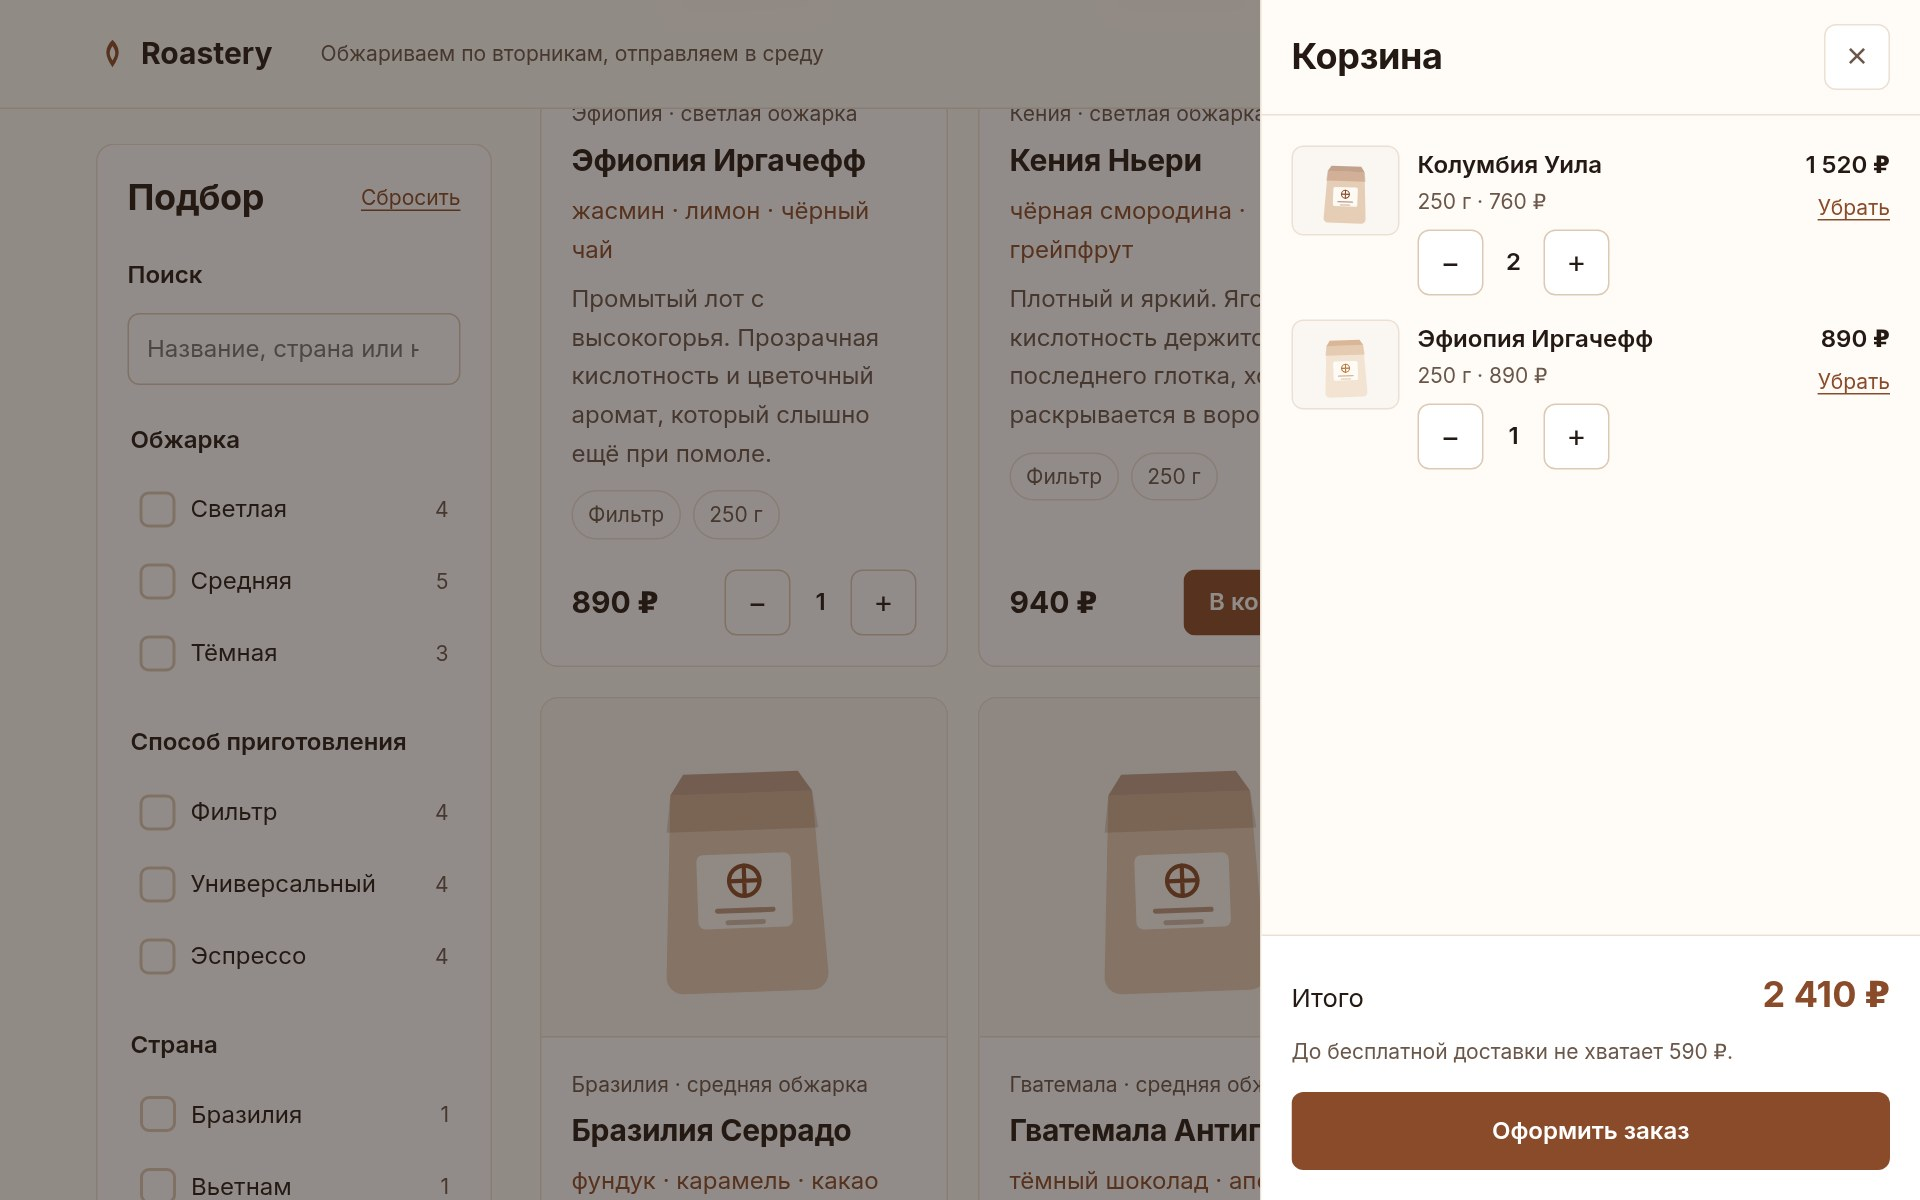
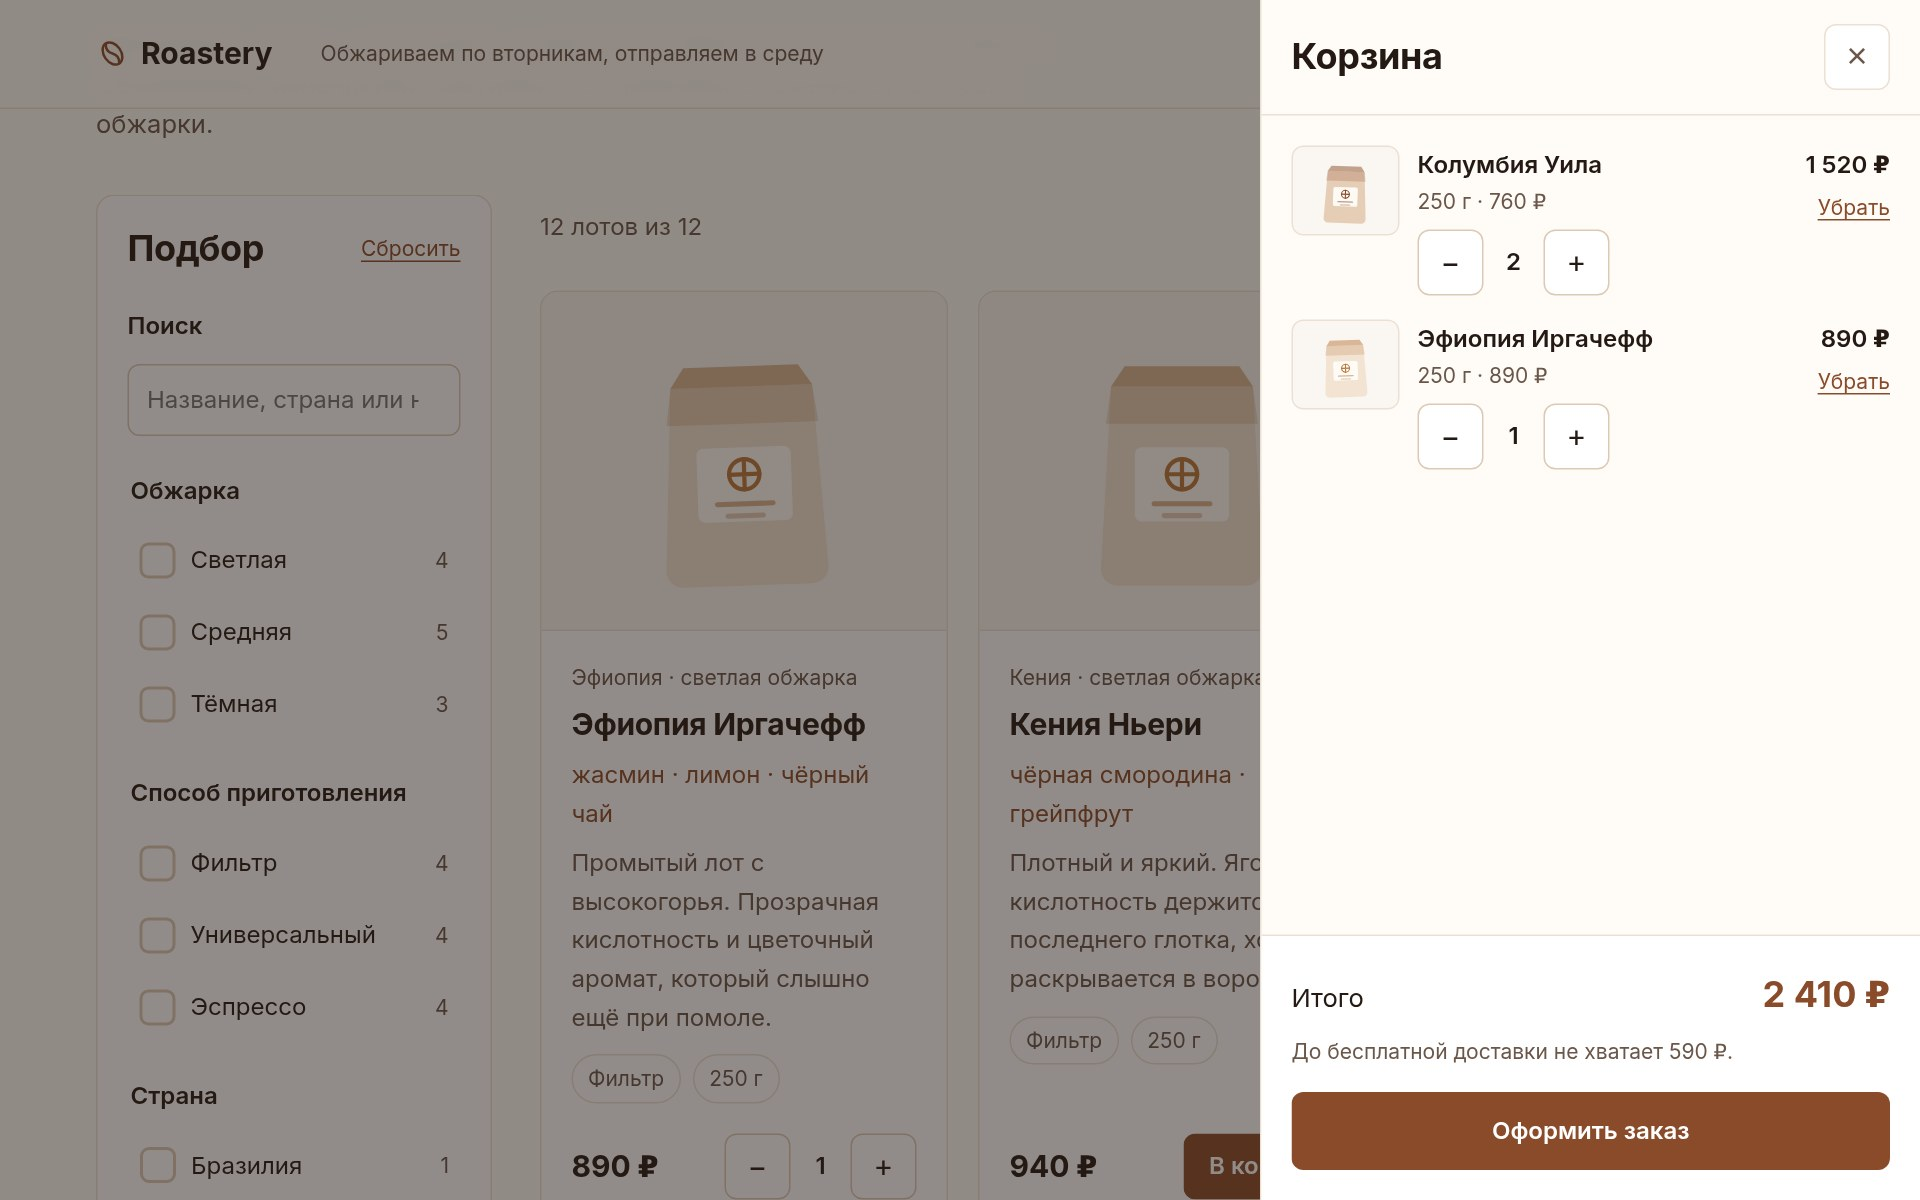
js/main.js, img/roastery-*.jpg: описание подбора в карточке Roastery обновлено, снимки заменены
В описании и списке возможностей сказано, что пункты подбора
пересчитываются на лету и пункты без товаров исчезают. Снимки каталога и
корзины сняты заново, в подписи к каталогу показан суженный список.

diff --git a/js/main.js b/js/main.js
@@ -118,11 +118,13 @@ const PROJECTS = [
     about:
       'Ближайший к интернет-магазину проект, который можно собрать без ' +
       'сервера. Фильтры внутри группы складываются по «или», между группами — ' +
-      'по «и», и всё состояние подбора живёт в адресе: ссылку на выдачу можно ' +
-      'переслать, а кнопка «Назад» отменяет последний фильтр. Корзина лежит ' +
-      'в браузере и переживает перезагрузку. Магазин вымышленный.',
+      'по «и». Подбор пересчитывается на лету: пункты, под которые не осталось ' +
+      'ни одного товара, убираются из списка, поэтому выбрать заведомо пустой ' +
+      'набор условий нельзя. Состояние подбора живёт в адресе — ссылку на ' +
+      'выдачу можно переслать, а «Назад» отменяет последний фильтр. Корзина ' +
+      'лежит в браузере и переживает перезагрузку. Магазин вымышленный.',
     features: [
-      'Подбор по четырём условиям сразу, рядом с каждым — число подходящих лотов.',
+      'Подбор по четырём условиям сразу: числа рядом с пунктами пересчитываются, а пункты без подходящих лотов исчезают.',
       'Поиск по названию, стране и вкусовым нотам; четыре порядка сортировки.',
       'Корзина с пересчётом суммы и остатками: больше, чем есть на складе, не набрать.',
       'Состояние подбора в адресе страницы — ссылку можно переслать.',
@@ -132,7 +134,7 @@ const PROJECTS = [
     repo: GITHUB + '/Roastery',
     demo: 'https://kennys44.github.io/Roastery/',
     shots: [
-      { src: 'img/roastery-grid.jpg', w: 1920, h: 1200, alt: 'Каталог: панель подбора слева, карточки товаров сеткой' },
+      { src: 'img/roastery-grid.jpg', w: 1920, h: 1200, alt: 'Каталог с выбранным условием: список подбора слева сузился до тех пунктов, под которые ещё есть товары' },
       { src: 'img/roastery-cart.jpg', w: 1920, h: 1200, alt: 'Корзина выезжает поверх каталога: состав заказа, количество и сумма' },
     ],
   },
